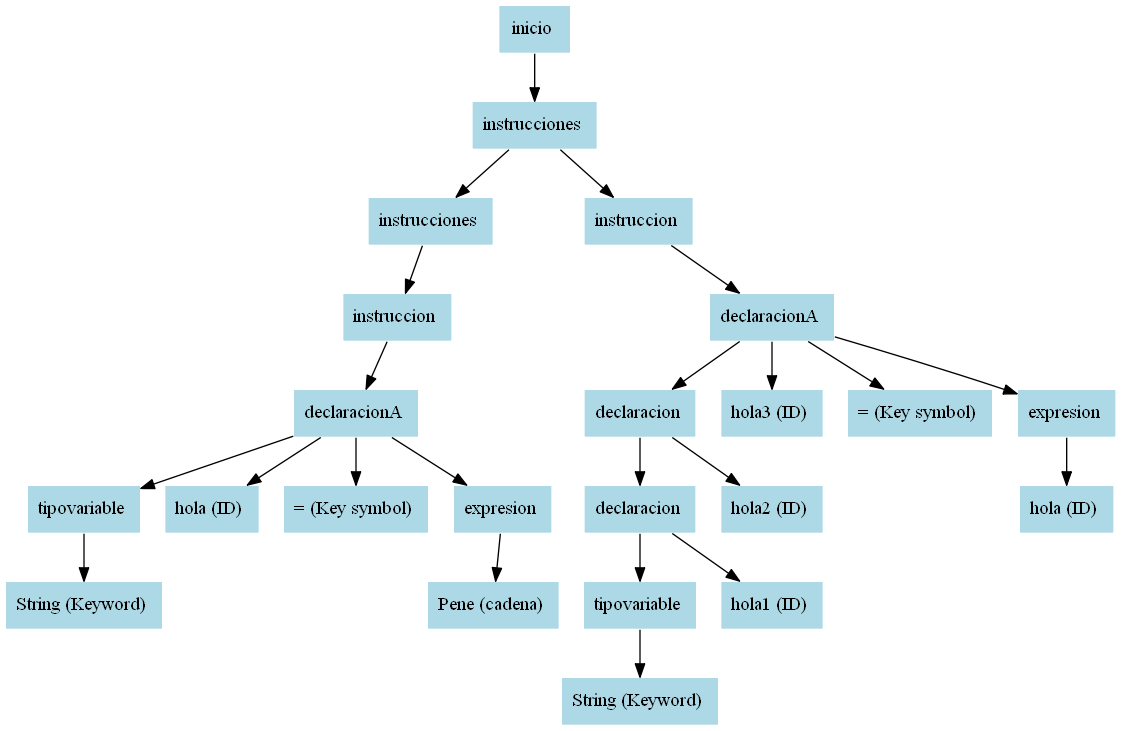
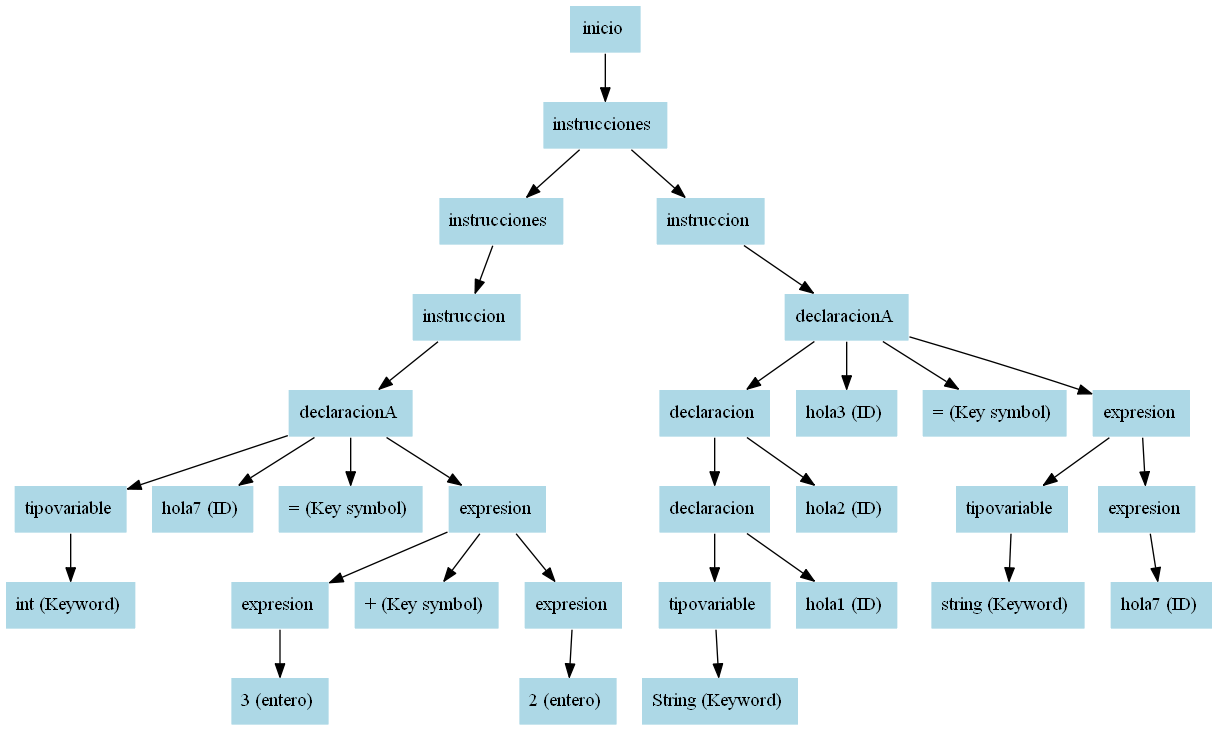
Se agrego todo el casteo explicito que puede haber

diff --git a/chat-teacher-server/CQL/Componentes/Expresion.cs b/chat-teacher-server/CQL/Componentes/Expresion.cs
@@ -4,6 +4,7 @@ using System.Collections.Generic;
 using System.Linq;
 using System.Threading.Tasks;
 using cql_teacher_server.Herramientas;
+using System.Globalization;
 
 namespace cql_teacher_server.CQL.Componentes
 {
@@ -19,6 +20,27 @@ namespace cql_teacher_server.CQL.Componentes
         int linea1 { set; get; }
         int columna1 { set; get; }
 
+        string casteo { set; get; }
+
+        /* 
+         * Constructor de la clase para casteos explicitos:
+         * CADENA,ENTERO,DECIMAL,FECHA,HORA,BOOLEAN
+         * @a expresion a evalular
+         * @casteo a que se quiere convertir
+         * @operacion tipo de operacion
+         * @l1 linea del operador izquierdo
+         * @c1 columna del operador izquierdo
+         */
+        public Expresion(Expresion a, string operacion, int linea1, int columna1, string casteo)
+        {
+            this.a = a;
+            this.operacion = operacion;
+            this.linea1 = linea1;
+            this.columna1 = columna1;
+            this.casteo = casteo;
+        }
+
+
         /*
          * Constructor de la clase para una operacion binario:
          * SUMA,RESTA,MULTIPLICACION,DIVISION,MODULAR,MENOR,MAYOR,MENORIGUAL,MAYORIGUAL,IGUAL,POTENCIA
@@ -28,7 +50,7 @@ namespace cql_teacher_server.CQL.Componentes
          * @l1 linea del operador izquierdo
          * @c1 columna del operador izquierdo
          */
-        public Expresion(Expresion a, Expresion b, string operacion,int l1 , int c1)
+        public Expresion(Expresion a, Expresion b, string operacion, int l1, int c1)
         {
             this.a = a;
             this.b = b;
@@ -52,6 +74,7 @@ namespace cql_teacher_server.CQL.Componentes
             this.linea1 = l1;
             this.columna1 = c1;
         }
+
         /* 
          * Constructor de la clase para valores puntuales:
          * CADENA,ENTERO,DECIMAL,FECHA,HORA,BOOLEAN
@@ -69,6 +92,11 @@ namespace cql_teacher_server.CQL.Componentes
         }
 
 
+
+
+
+
+
         /*
          * Metodo de la implementacion de la clase InstruccionCQL
          * @ts Tabla de simbolos global
@@ -76,10 +104,10 @@ namespace cql_teacher_server.CQL.Componentes
          * @baseD base de datos en la que se realizara la accion, es pasada por referencia
          */
 
-        public object ejecutar(TablaDeSimbolos ts, string user, ref string baseD,LinkedList<string> mensajes)
+        public object ejecutar(TablaDeSimbolos ts, string user, ref string baseD, LinkedList<string> mensajes)
         {
-            object op1 = (a == null) ? null : a.ejecutar(ts, user, ref baseD,mensajes);
-            object op2 = (b == null) ? null : b.ejecutar(ts, user, ref baseD,mensajes);
+            object op1 = (a == null) ? null : a.ejecutar(ts, user, ref baseD, mensajes);
+            object op2 = (b == null) ? null : b.ejecutar(ts, user, ref baseD, mensajes);
 
             //-------------------------------------------------- TIPO DE OPERACION ------------------------------------------------------------
             //---------------------------------------------------------------------------------------------------------------------------------
@@ -101,7 +129,7 @@ namespace cql_teacher_server.CQL.Componentes
                 else
                 {
                     Mensaje mes = new Mensaje();
-                    mensajes.AddLast(mes.error("No se puede sumar " + op1.ToString() + " con " + op2.ToString(), linea1, columna1,"Semantico"));
+                    mensajes.AddLast(mes.error("No se puede sumar " + op1.ToString() + " con " + op2.ToString(), linea1, columna1, "Semantico"));
                     return null;
                 }
             }
@@ -115,7 +143,7 @@ namespace cql_teacher_server.CQL.Componentes
                 else
                 {
                     Mensaje mes = new Mensaje();
-                    mensajes.AddLast(mes.error("No se puede restar " + op1.ToString() + " con " + op2.ToString(), linea1, columna1,"Semantico"));
+                    mensajes.AddLast(mes.error("No se puede restar " + op1.ToString() + " con " + op2.ToString(), linea1, columna1, "Semantico"));
                     return null;
                 }
             }
@@ -129,7 +157,7 @@ namespace cql_teacher_server.CQL.Componentes
                 else
                 {
                     Mensaje mes = new Mensaje();
-                    mensajes.AddLast(mes.error("No se puede multiplicar " + op1.ToString() + " con " + op2.ToString(), linea1, columna1,"Semantico"));
+                    mensajes.AddLast(mes.error("No se puede multiplicar " + op1.ToString() + " con " + op2.ToString(), linea1, columna1, "Semantico"));
                     return null;
                 }
             }
@@ -143,7 +171,7 @@ namespace cql_teacher_server.CQL.Componentes
                 else
                 {
                     Mensaje mes = new Mensaje();
-                    mensajes.AddLast(mes.error("No se puede obtener una potencia de " + op1.ToString() + " con " + op2.ToString(), linea1, columna1,"Semantico"));
+                    mensajes.AddLast(mes.error("No se puede obtener una potencia de " + op1.ToString() + " con " + op2.ToString(), linea1, columna1, "Semantico"));
                     return null;
                 }
             }
@@ -159,14 +187,14 @@ namespace cql_teacher_server.CQL.Componentes
                     else
                     {
                         Mensaje mes = new Mensaje();
-                        mensajes.AddLast(mes.error("No se puede obtener el modulo de  " + op1.ToString() + " con " + op2.ToString(), linea1, columna1,"Semantico"));
+                        mensajes.AddLast(mes.error("No se puede obtener el modulo de  " + op1.ToString() + " con " + op2.ToString(), linea1, columna1, "Semantico"));
                         return null;
                     }
                 }
                 else
                 {
                     Mensaje mes = new Mensaje();
-                    mensajes.AddLast(mes.error("No se puede obtener el modulo un divisor 0", linea1, columna1,"Semantico"));
+                    mensajes.AddLast(mes.error("No se puede obtener el modulo un divisor 0", linea1, columna1, "Semantico"));
                     return null;
                 }
 
@@ -183,14 +211,14 @@ namespace cql_teacher_server.CQL.Componentes
                     else
                     {
                         Mensaje mes = new Mensaje();
-                        mensajes.AddLast(mes.error("No se puede dividir  " + op1.ToString() + " con " + op2.ToString(), linea1, columna1,"Semantico"));
+                        mensajes.AddLast(mes.error("No se puede dividir  " + op1.ToString() + " con " + op2.ToString(), linea1, columna1, "Semantico"));
                         return null;
                     }
                 }
                 else
                 {
                     Mensaje mes = new Mensaje();
-                    mensajes.AddLast(mes.error("No se puede dividir entre 0", linea1, columna1,"Semantico"));
+                    mensajes.AddLast(mes.error("No se puede dividir entre 0", linea1, columna1, "Semantico"));
                     return null;
                 }
             }
@@ -206,7 +234,7 @@ namespace cql_teacher_server.CQL.Componentes
                 else
                 {
                     Mensaje mes = new Mensaje();
-                    mensajes.AddLast(mes.error("No se puede conocer el mayor de   " + op1.ToString() + " con " + op2.ToString(), linea1, columna1,"Semantico"));
+                    mensajes.AddLast(mes.error("No se puede conocer el mayor de   " + op1.ToString() + " con " + op2.ToString(), linea1, columna1, "Semantico"));
                     return null;
                 }
             }
@@ -222,7 +250,7 @@ namespace cql_teacher_server.CQL.Componentes
                 else
                 {
                     Mensaje mes = new Mensaje();
-                    mensajes.AddLast(mes.error("No se puede conocer el menor de   " + op1.ToString() + " con " + op2.ToString(), linea1, columna1,"Semantico"));
+                    mensajes.AddLast(mes.error("No se puede conocer el menor de   " + op1.ToString() + " con " + op2.ToString(), linea1, columna1, "Semantico"));
                     return null;
                 }
             }
@@ -238,7 +266,7 @@ namespace cql_teacher_server.CQL.Componentes
                 else
                 {
                     Mensaje mes = new Mensaje();
-                    mensajes.AddLast(mes.error("No se puede conocer el mayor igual de   " + op1.ToString() + " con " + op2.ToString(), linea1, columna1,"Semantico"));
+                    mensajes.AddLast(mes.error("No se puede conocer el mayor igual de   " + op1.ToString() + " con " + op2.ToString(), linea1, columna1, "Semantico"));
                     return null;
                 }
             }
@@ -254,7 +282,7 @@ namespace cql_teacher_server.CQL.Componentes
                 else
                 {
                     Mensaje mes = new Mensaje();
-                    mensajes.AddLast(mes.error("No se puede conocer el menor igual de   " + op1.ToString() + " con " + op2.ToString(), linea1, columna1,"Semantico"));
+                    mensajes.AddLast(mes.error("No se puede conocer el menor igual de   " + op1.ToString() + " con " + op2.ToString(), linea1, columna1, "Semantico"));
                     return null;
                 }
             }
@@ -272,7 +300,7 @@ namespace cql_teacher_server.CQL.Componentes
                 else
                 {
                     Mensaje mes = new Mensaje();
-                    mensajes.AddLast(mes.error("No se puede conocer si es igual   " + op1.ToString() + " con " + op2.ToString(), linea1, columna1,"Semantico"));
+                    mensajes.AddLast(mes.error("No se puede conocer si es igual   " + op1.ToString() + " con " + op2.ToString(), linea1, columna1, "Semantico"));
                     return null;
                 }
             }
@@ -285,7 +313,7 @@ namespace cql_teacher_server.CQL.Componentes
                 else if (op1.GetType() == typeof(Double) && op2.GetType() == typeof(Double)) return (Double)op1 != (Double)op2;
                 else if (op1.GetType() == typeof(TimeSpan) && op2.GetType() == typeof(TimeSpan)) return (TimeSpan)op1 != (TimeSpan)op2;
                 else if (op1.GetType() == typeof(DateTime) && op2.GetType() == typeof(DateTime)) return (DateTime)op1 != (DateTime)op2;
-                else if (op1.GetType() == typeof(string) && op2.GetType() == typeof(string)) return ! op1.ToString().Equals(op2.ToString());
+                else if (op1.GetType() == typeof(string) && op2.GetType() == typeof(string)) return !op1.ToString().Equals(op2.ToString());
                 else if (op1.GetType() == typeof(Boolean) && op2.GetType() == typeof(Boolean)) return (Boolean)op1 != (Boolean)op2;
                 else
                 {
@@ -355,6 +383,76 @@ namespace cql_teacher_server.CQL.Componentes
                     return null;
                 }
             }
+            //------------------------------------------------------- CONVERSION EXPLICITA --------------------------------------------------------
+            else if (operacion.Equals("CONVERSION") && op1 != null)
+            {
+                if (casteo.Equals("string")) return op1.ToString();
+                else if (op1.GetType() == typeof(string) && casteo.Equals("int"))
+                {
+                    Boolean salida = false;
+                    int datoS = 0;
+                    Boolean conver = Int32.TryParse(op1.ToString(), out datoS);
+                    if (!conver)
+                    {
+                        Mensaje men = new Mensaje();
+                        mensajes.AddLast(men.error("No se puede castear: " + op1 + " to (int)", linea1, columna1, "Semantico"));
+                        return null;
+                    }
+                    else return datoS;
+                }
+                else if (op1.GetType() == typeof(string) && casteo.Equals("time"))
+                {
+                    try
+                    {
+                        TimeSpan result = TimeSpan.ParseExact(op1.ToString(), "hh\\:mm\\:ss", CultureInfo.InvariantCulture);
+                        return result;
+                    }
+                    catch (Exception e)
+                    {
+                        Mensaje men = new Mensaje();
+                        mensajes.AddLast(men.error("No se puede castear: " + op1 + " to (Time)", linea1, columna1, "Semantico"));
+                        return null;
+                    }
+
+
+                }
+                else if (op1.GetType() == typeof(string) && casteo.Equals("double"))
+                {
+                    Boolean salida = false;
+                    Double result;
+
+                    Boolean conver = Double.TryParse(op1.ToString(), out result);
+                    if (!conver)
+                    {
+                        Mensaje men = new Mensaje();
+                        mensajes.AddLast(men.error("No se puede castear: " + op1 + " to (Double)", linea1, columna1, "Semantico"));
+                        return null;
+                    }
+                    else return result;
+                }
+                else if (op1.GetType() == typeof(string) && casteo.Equals("date"))
+                {
+
+                    try
+                    {
+                        DateTime result = DateTime.ParseExact(op1.ToString(), "yyyy\\-MM\\-dd", CultureInfo.InvariantCulture);
+                        return result;
+                    }
+                    catch (Exception e)
+                    {
+                        Mensaje men = new Mensaje();
+                        mensajes.AddLast(men.error("No se puede castear: " + op1 + " to (Date)", linea1, columna1, "Semantico"));
+                        return null;
+                    }
+
+                }
+                else
+                {
+                    Mensaje men = new Mensaje();
+                    mensajes.AddLast(men.error("No se puede castear: " + op1 + " to (" + casteo + ")", linea1, columna1, "Semantico"));
+                    return null;
+                }
+            }
             //------------------------------------------------- ENTERO -------------------------------------------------------------------------
             else if (operacion.Equals("ENTERO")) return Int32.Parse(valor.ToString());
             //------------------------------------------------- DOUBLE -------------------------------------------------------------------------
@@ -371,12 +469,13 @@ namespace cql_teacher_server.CQL.Componentes
             else if (operacion.Equals("ID"))
             {
                 object a = ts.getValor(valor.ToString().TrimStart().TrimEnd());
-                if( a == null)
+                if (a == null)
                 {
                     Mensaje me = new Mensaje();
                     mensajes.AddLast(me.error("La variable " + valor + " no ha sido instanciada", linea1, columna1, "Semantico"));
                     return null;
-                }else if(a.ToString().Equals("none"))
+                }
+                else if (a.ToString().Equals("none"))
                 {
                     Mensaje me = new Mensaje();
                     mensajes.AddLast(me.error("La variable " + valor + " no existe en este ambito", linea1, columna1, "Semantico"));

diff --git a/chat-teacher-server/CQL/Gramatica/SintacticoCQL.cs b/chat-teacher-server/CQL/Gramatica/SintacticoCQL.cs
@@ -208,7 +208,7 @@ namespace cql_teacher_server.CQL.Gramatica
 
          public Expresion resolver_expresion(ParseTreeNode raiz)
         {
-            if(raiz.ChildNodes.Count() == 3)
+            if (raiz.ChildNodes.Count() == 3)
             {
                 string toke = raiz.ChildNodes.ElementAt(1).Token.Text;
                 int l1 = raiz.ChildNodes.ElementAt(1).Token.Location.Line;
@@ -216,15 +216,27 @@ namespace cql_teacher_server.CQL.Gramatica
                 return new Expresion(resolver_expresion(raiz.ChildNodes.ElementAt(0)), resolver_expresion(raiz.ChildNodes.ElementAt(2)), getOperacion(toke), l1, c1);
 
             }
-            else if(raiz.ChildNodes.Count() == 2)
+            else if (raiz.ChildNodes.Count() == 2)
             {
-                string toke = raiz.ChildNodes.ElementAt(0).Token.Text;
-                int l1 = raiz.ChildNodes.ElementAt(0).Token.Location.Line;
-                int c1 = raiz.ChildNodes.ElementAt(0).Token.Location.Column;
-                string opera = "";
-                if (toke.Equals("-")) opera = "NEGATIVO";
-                else if (toke.Equals("!")) opera = "NEGACION";
-                return new Expresion(resolver_expresion(raiz.ChildNodes.ElementAt(1)),opera,l1,c1);
+                string iden = raiz.ChildNodes.ElementAt(0).Term.Name;
+                if (iden.Equals("tipovariable"))
+                {
+                    int l1 = raiz.ChildNodes.ElementAt(0).ChildNodes.ElementAt(0).Token.Location.Line;
+                    int c1 = raiz.ChildNodes.ElementAt(0).ChildNodes.ElementAt(0).Token.Location.Column;
+                    string tipov = raiz.ChildNodes.ElementAt(0).ChildNodes.ElementAt(0).Token.Text.TrimEnd().TrimStart().ToLower();
+                    return new Expresion(resolver_expresion(raiz.ChildNodes.ElementAt(1)), "CONVERSION", l1, c1, tipov);
+                }
+                else
+                {
+                    string toke = raiz.ChildNodes.ElementAt(0).Token.Text;
+                    int l1 = raiz.ChildNodes.ElementAt(0).Token.Location.Line;
+                    int c1 = raiz.ChildNodes.ElementAt(0).Token.Location.Column;
+                    string opera = "";
+                    if (toke.Equals("-")) opera = "NEGATIVO";
+                    else if (toke.Equals("!")) opera = "NEGACION";
+                    return new Expresion(resolver_expresion(raiz.ChildNodes.ElementAt(1)), opera, l1, c1);
+                }
+                
             }
             else
             {

diff --git a/chat-teacher-server/CQL/Gramatica/GramaticaCQL.cs b/chat-teacher-server/CQL/Gramatica/GramaticaCQL.cs
@@ -150,6 +150,7 @@ namespace cql_teacher_server.CQL.Gramatica
                            | expresion + POTENCIA + expresion
                            | RESTA + expresion
                            | ToTerm("(") + expresion + ToTerm(")")
+                           | ToTerm("(") + tipoVariable + ToTerm(")") + expresion
                            | ENTERO
                            | ToTerm("@") + ID
                            | CADENA
